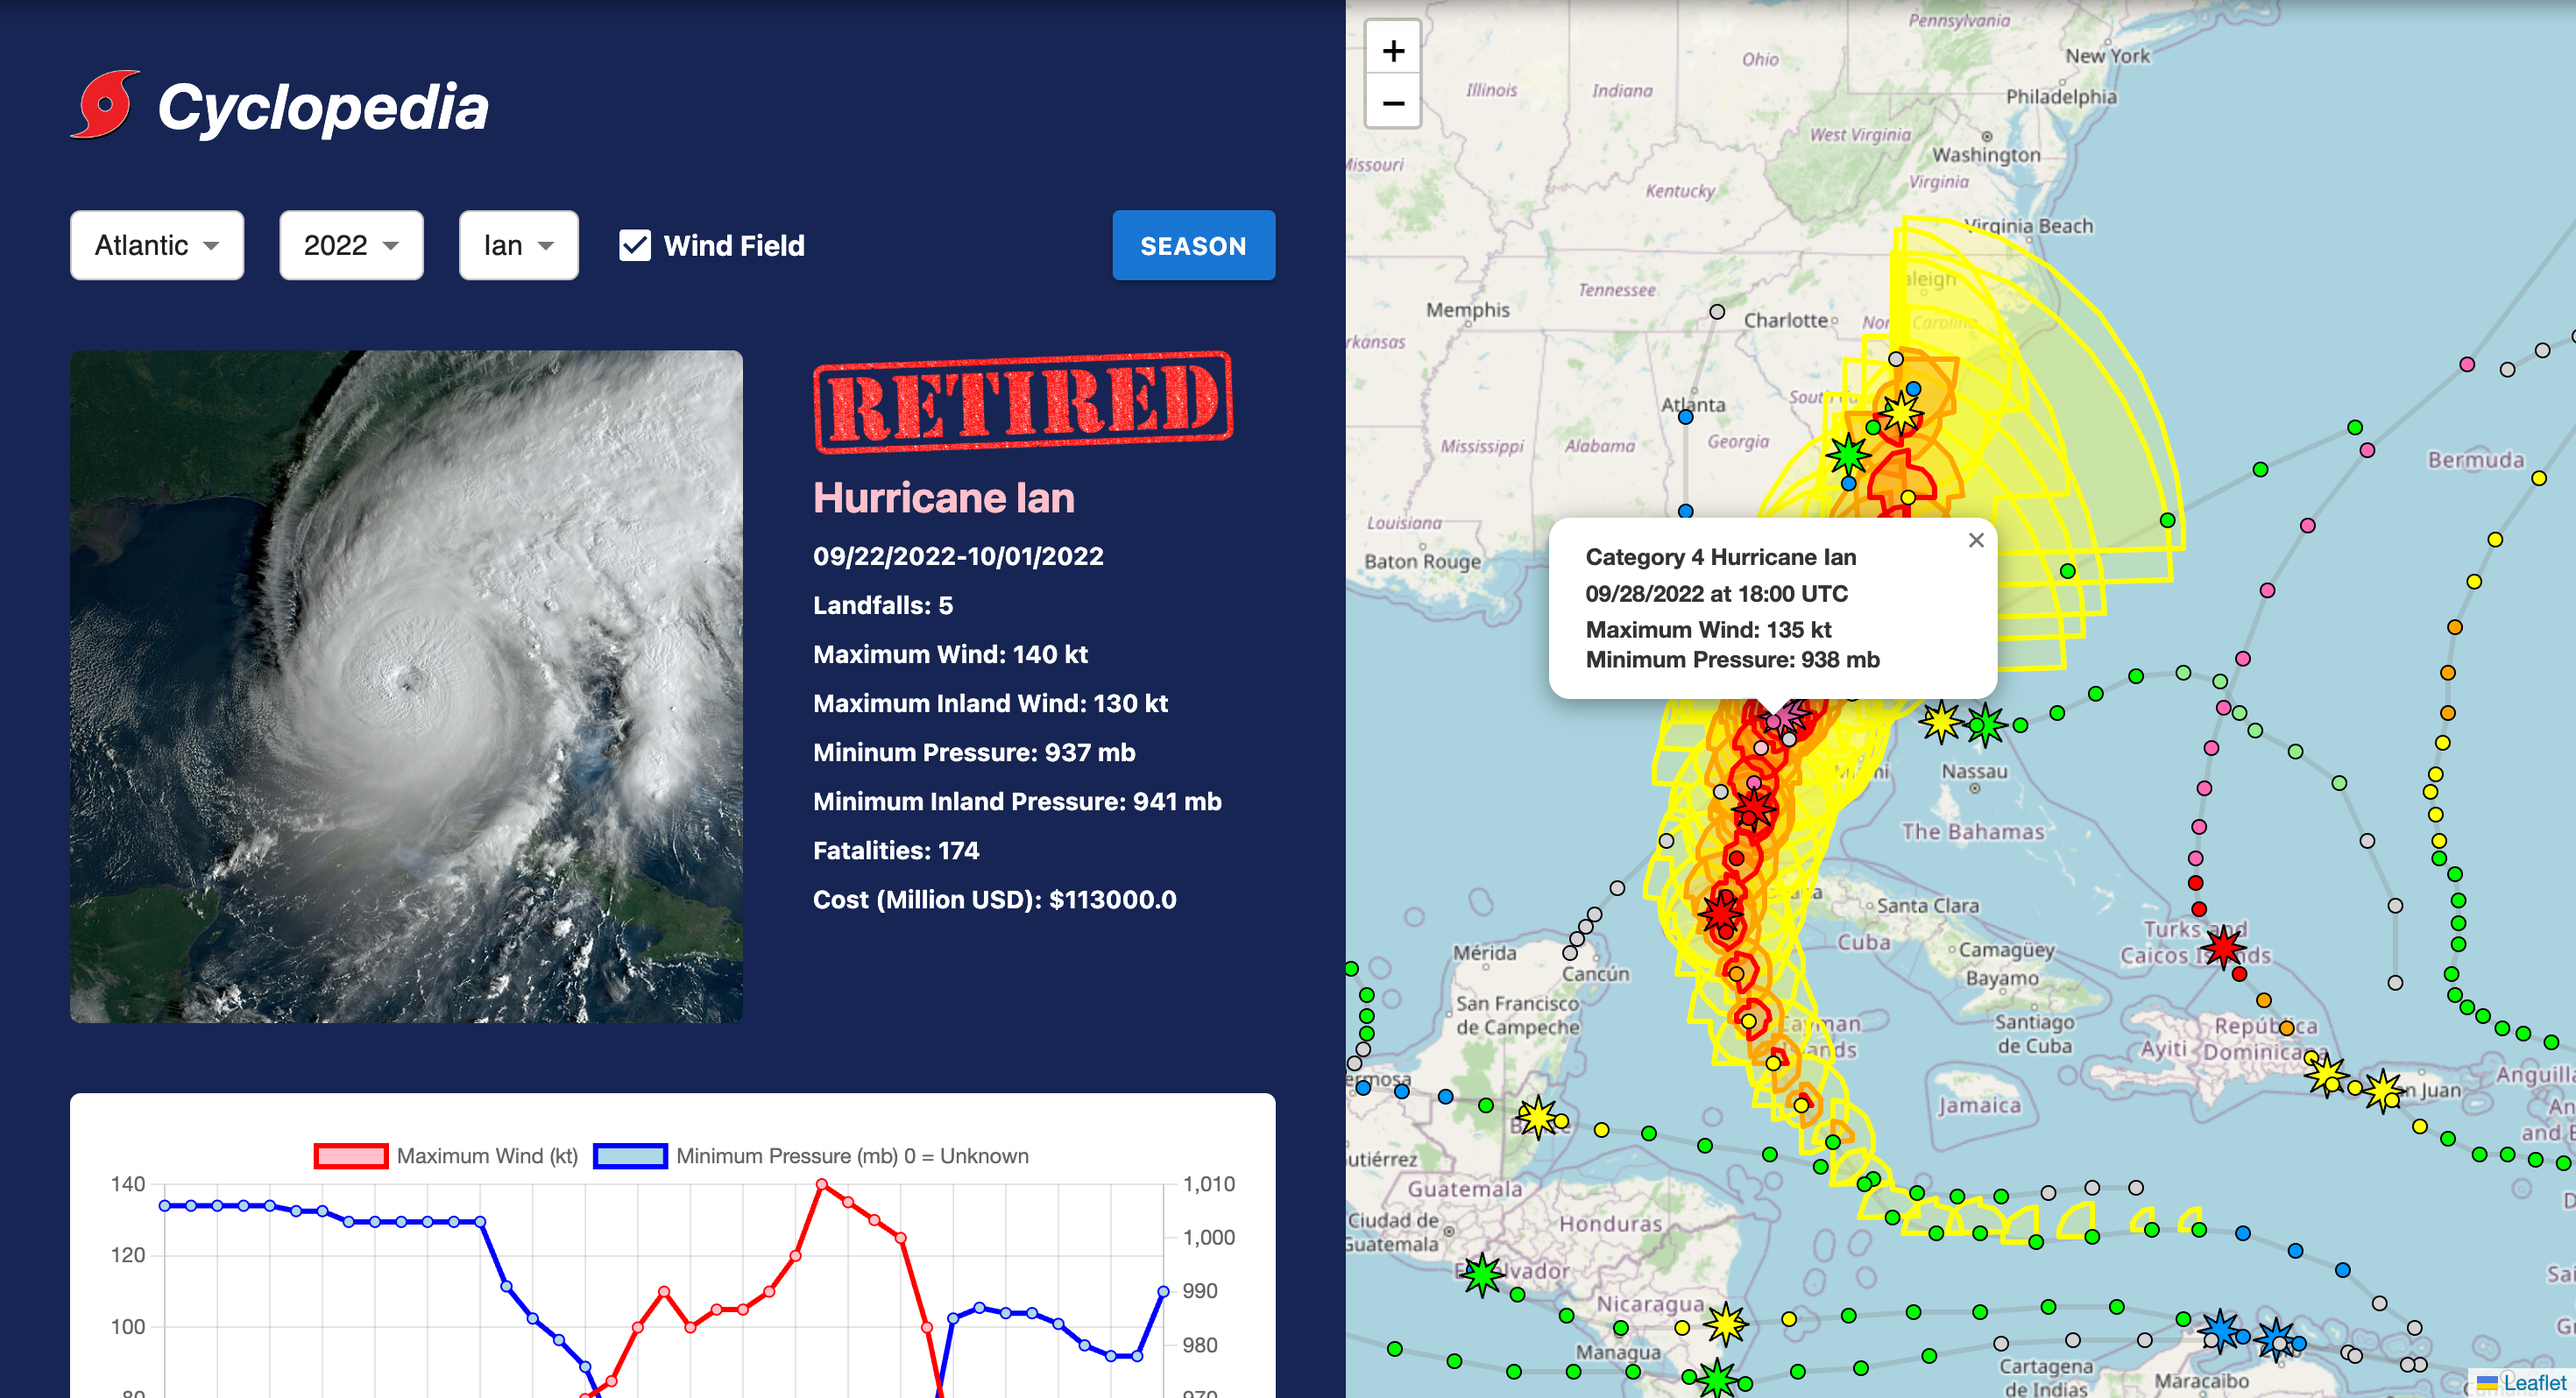
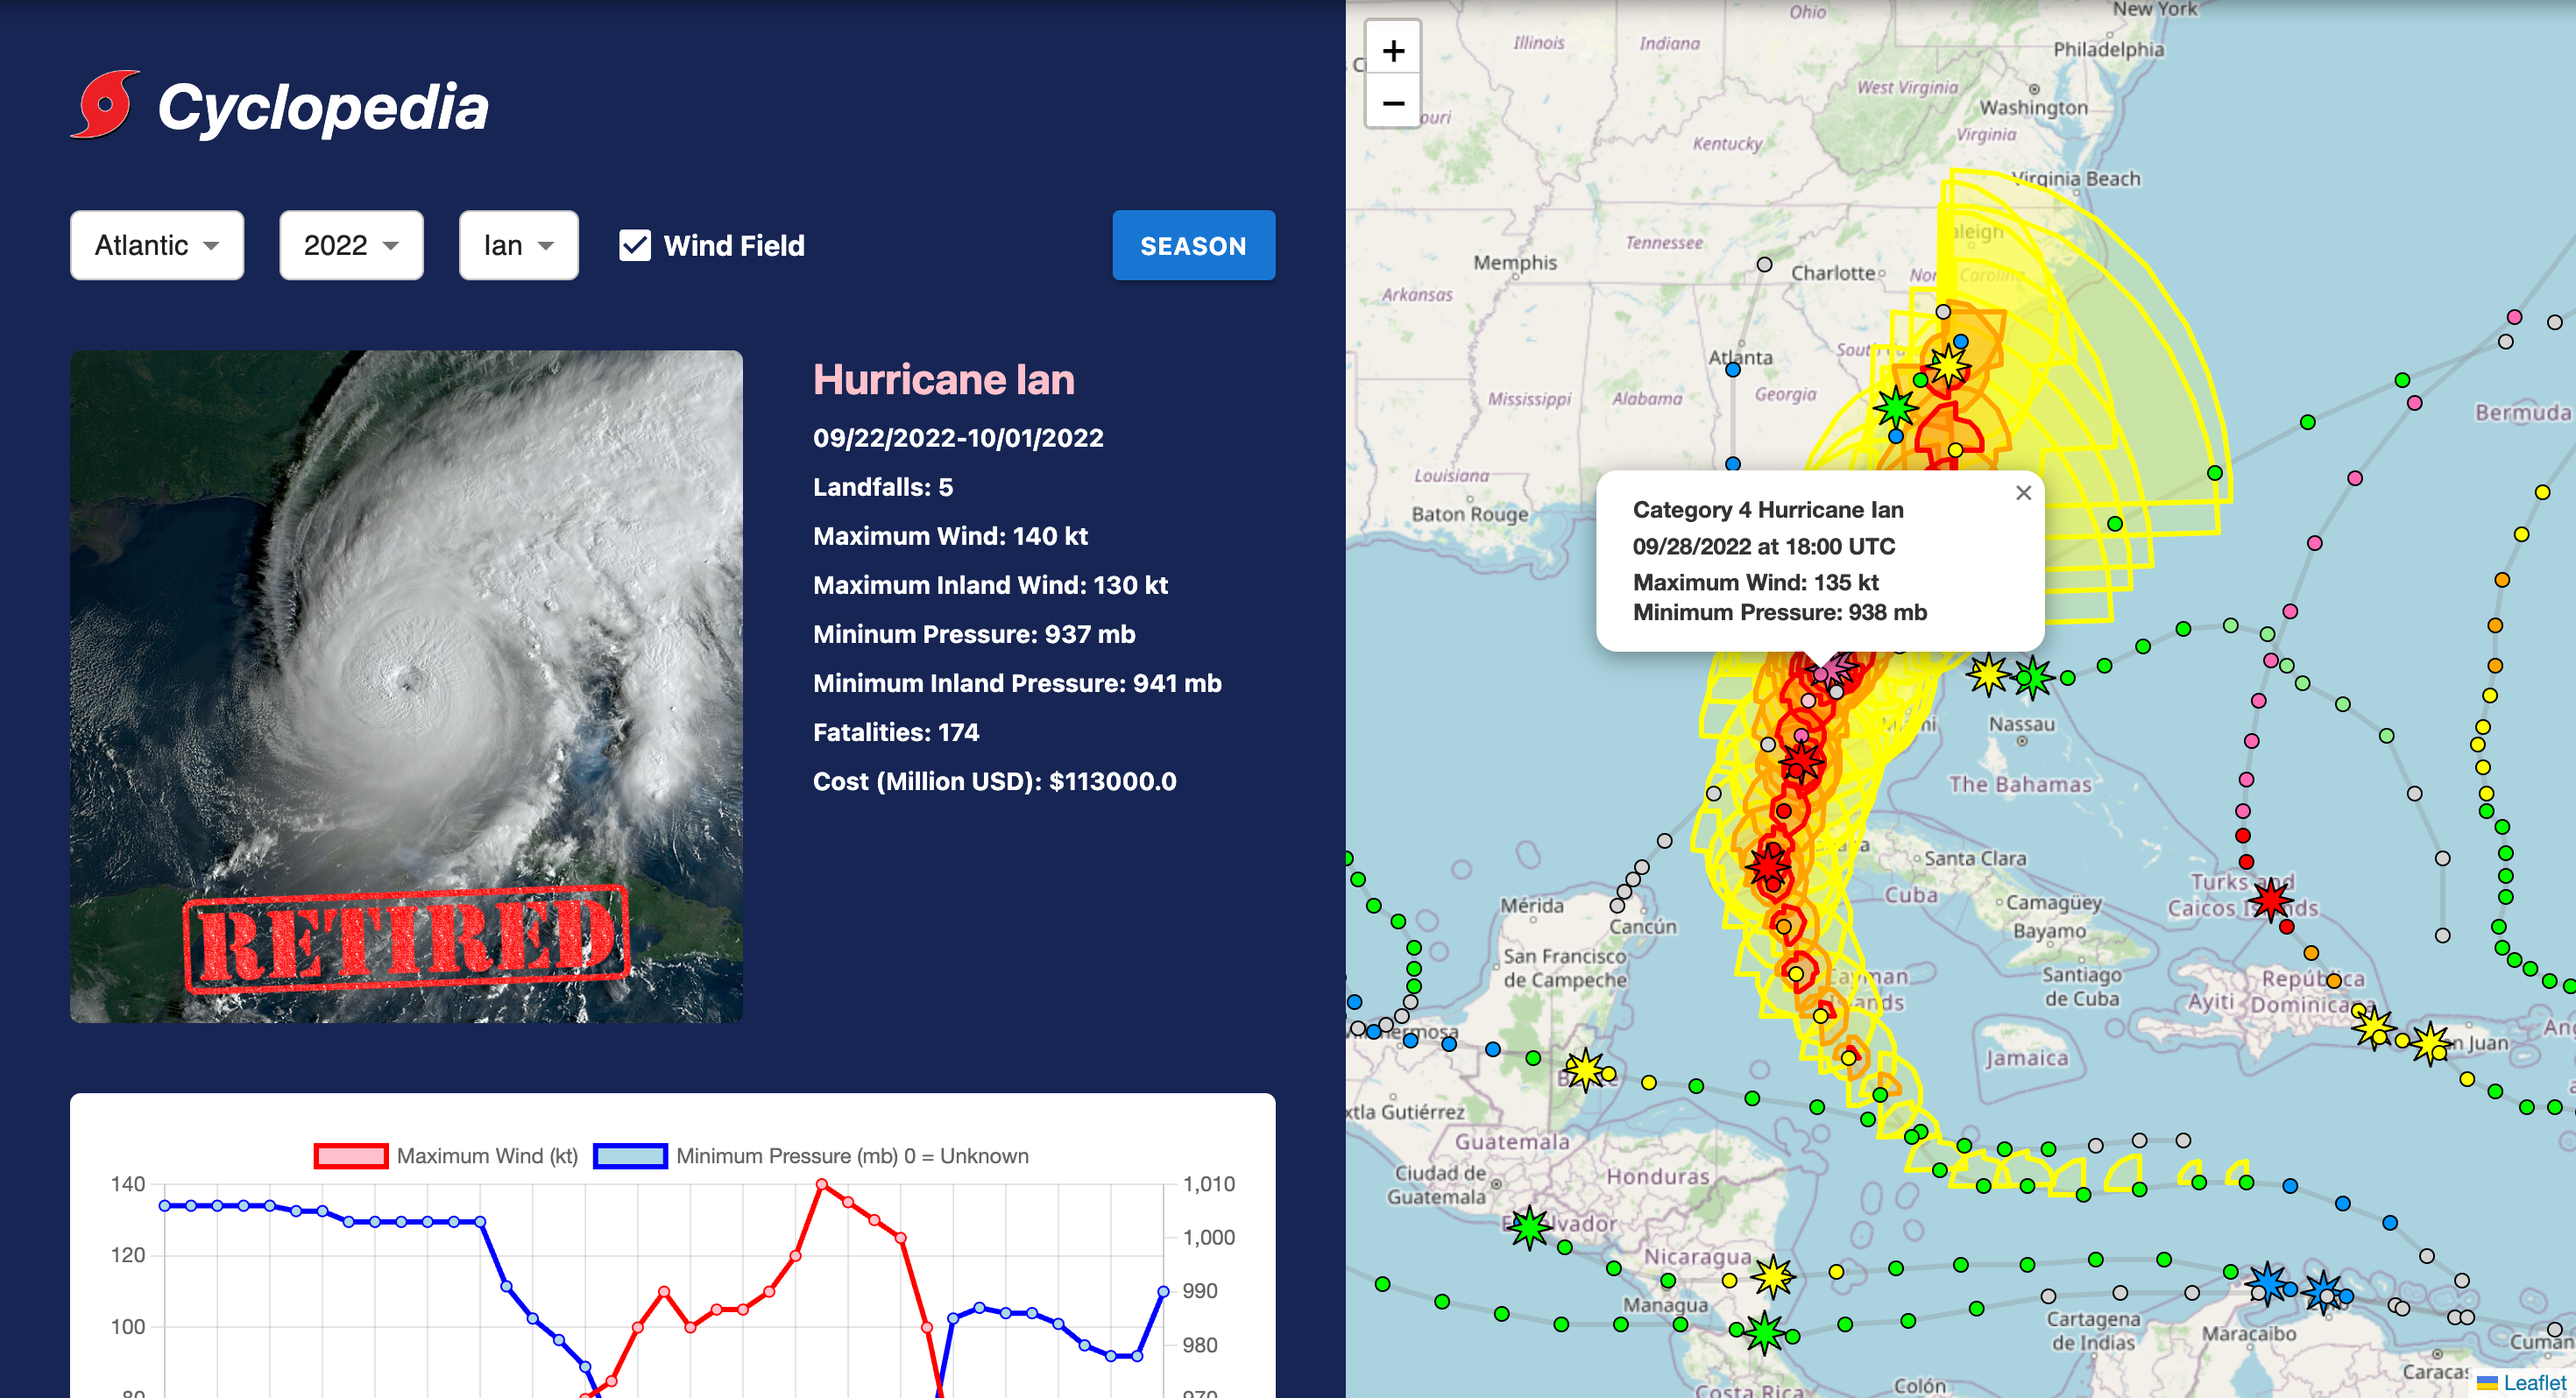
quick ui update

diff --git a/client/src/App.jsx b/client/src/App.jsx
@@ -3,7 +3,6 @@ import { getHurdat } from "./libs/hurdat"
 import Interface from "./components/Interface"
 import Map from "./components/Map"
 import cyclone from '../public/cyclone.png'
-import 'animate.css'
 
 export const Context = createContext()
 
@@ -19,7 +18,7 @@ function App() {
 
   useEffect(() => {
     if (year < 1949 && basin === 'pac') setYear(1949)
-    const cache = localStorage.getItem(`hurdat2-${basin}-${year}`)
+    const cache = localStorage.getItem(`cyclopedia-${basin}-${year}`)
     if (cache) {
       setSeason(JSON.parse(cache))
       setStormId(JSON.parse(cache)[0].id)
@@ -29,7 +28,7 @@ function App() {
       getHurdat(basin, year).then(data => {
         setSeason(data)
         setStormId(data[0].id)
-        localStorage.setItem(`hurdat2-${basin}-${year}`, JSON.stringify(data))
+        localStorage.setItem(`cyclopedia-${basin}-${year}`, JSON.stringify(data))
       })
     }
   }, [basin, year])

diff --git a/client/src/components/Storm.jsx b/client/src/components/Storm.jsx
@@ -133,11 +133,11 @@ const Storm = () => {
   return (
     <div id="storm">
       <header>
-        <a style={{backgroundImage: `url(${image})`}} href={year > 1993 ? (`https://www.nhc.noaa.gov/data/tcr/${stormId}.pdf`) : ('#')}>
+        <a className={retired && '!justify-end pb-2 sm:pb-4'} style={{backgroundImage: `url(${image})`}} href={year > 1993 ? (`https://www.nhc.noaa.gov/data/tcr/${stormId}.pdf`) : ('#')}>
           {image == "" && <h1>Image Unavailable</h1>}
+          {retired && <img className='sm:w-64 w-32' src={retiredImage}/>}
         </a>
         <div id="stats">
-          {retired == true && <img className='animate__bounceIn sm:w-60 w-40' src={retiredImage}/>}
           <h1 style={{color:textColor}}>{stormName !== 'Unnamed' ? (`${status} ${stormName}`) : (`${stormName} ${status}`)}</h1>
           <h2>{duration}</h2>
           {year > 1982 && <h2>Landfalls: {landfalls.length}</h2>}
